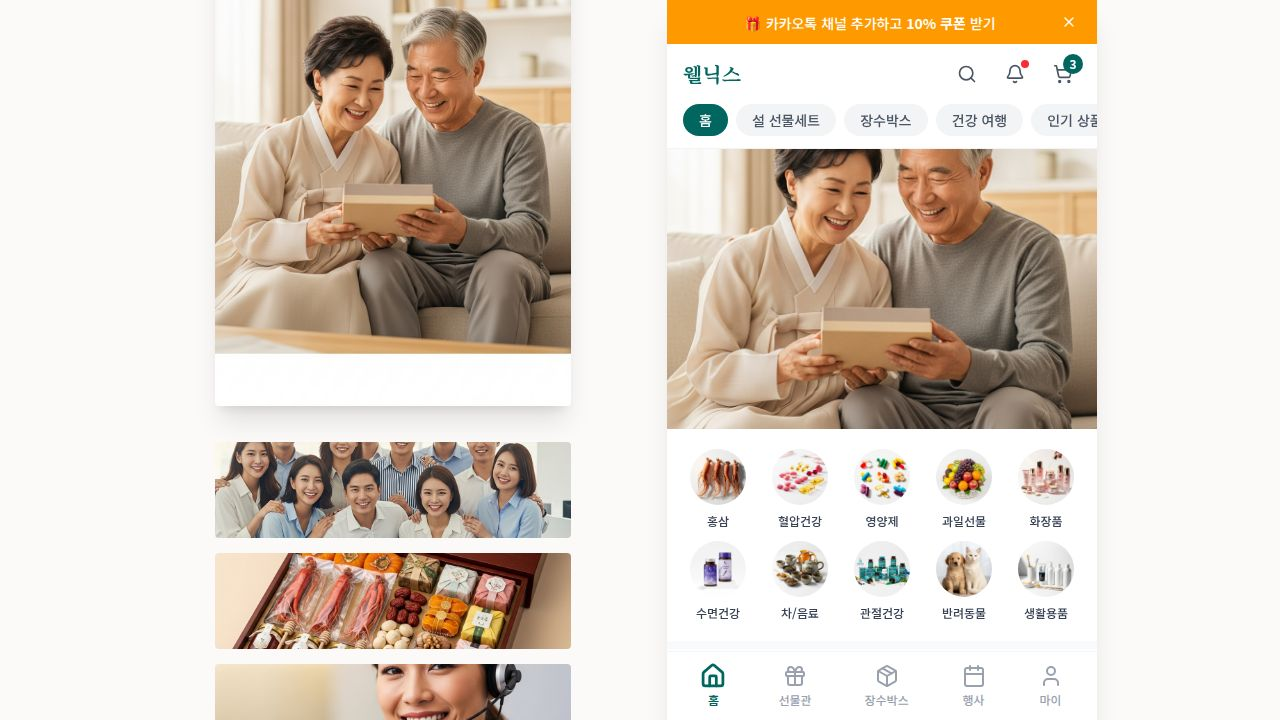
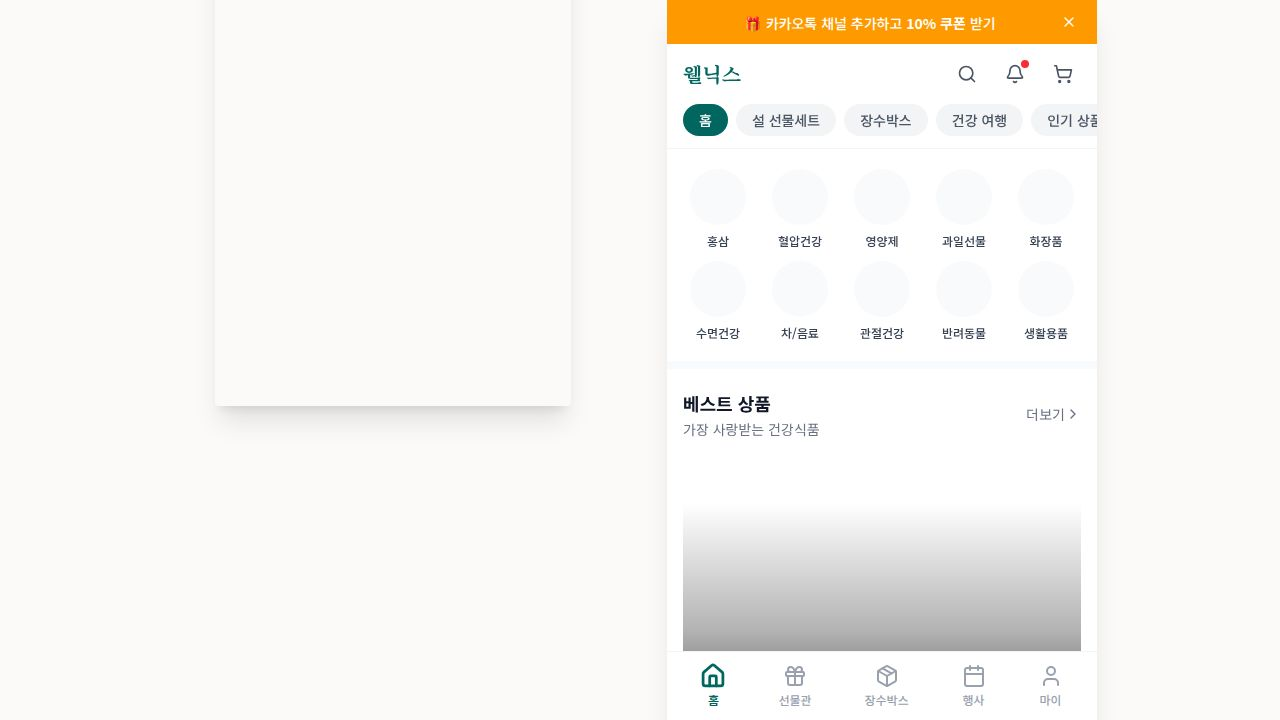
Add a page to view user notifications and mark them as read
Introduces a new NotificationsPage component, updates the header to display an unread notification count badge, and adds API endpoints for fetching unread counts and marking all notifications as read.

Replit-Commit-Author: Agent
Replit-Commit-Session-Id: e8a9c553-277e-4918-a1a7-23c5ad4b05ab
Replit-Commit-Checkpoint-Type: full_checkpoint
Replit-Commit-Event-Id: 5a8dfafa-de01-4398-b879-13fb6621a474
Replit-Commit-Screenshot-Url: https://storage.googleapis.com/screenshot-production-us-central1/d231b134-7ceb-4650-be16-58a3bee1cfa0/e8a9c553-277e-4918-a1a7-23c5ad4b05ab/y8km6Mv
Replit-Helium-Checkpoint-Created: true

diff --git a/client/src/pages/NotificationsPage.tsx b/client/src/pages/NotificationsPage.tsx
@@ -1,0 +1,233 @@
+import { useLocation } from "wouter";
+import { useQuery, useMutation, useQueryClient } from "@tanstack/react-query";
+import { ChevronLeft, Home, Bell, Package, Gift, Megaphone, CheckCheck } from "lucide-react";
+import { AppLayout } from "@/components/AppLayout";
+import { Button } from "@/components/ui/button";
+import { useAuth } from "@/hooks/use-auth";
+import { apiRequest } from "@/lib/queryClient";
+
+interface Notification {
+  id: number;
+  memberId: number;
+  type: string;
+  title: string;
+  content: string | null;
+  link: string | null;
+  isRead: boolean;
+  createdAt: string;
+}
+
+function getNotificationIcon(type: string) {
+  switch (type) {
+    case "order":
+      return <Package className="w-5 h-5" />;
+    case "promotion":
+      return <Gift className="w-5 h-5" />;
+    case "announcement":
+      return <Megaphone className="w-5 h-5" />;
+    default:
+      return <Bell className="w-5 h-5" />;
+  }
+}
+
+function formatDate(dateStr: string) {
+  const date = new Date(dateStr);
+  const now = new Date();
+  const diff = now.getTime() - date.getTime();
+  const minutes = Math.floor(diff / 60000);
+  const hours = Math.floor(diff / 3600000);
+  const days = Math.floor(diff / 86400000);
+
+  if (minutes < 1) return "방금 전";
+  if (minutes < 60) return `${minutes}분 전`;
+  if (hours < 24) return `${hours}시간 전`;
+  if (days < 7) return `${days}일 전`;
+  return date.toLocaleDateString("ko-KR");
+}
+
+export default function NotificationsPage() {
+  const [, setLocation] = useLocation();
+  const queryClient = useQueryClient();
+  const { isLoading: authLoading, isAuthenticated } = useAuth();
+
+  const { data: notifications = [], isLoading } = useQuery<Notification[]>({
+    queryKey: ["/api/notifications"],
+    queryFn: async () => {
+      const res = await fetch("/api/notifications");
+      if (!res.ok) return [];
+      return res.json();
+    },
+    enabled: isAuthenticated,
+    staleTime: 30000,
+  });
+
+  const markAllReadMutation = useMutation({
+    mutationFn: async () => {
+      return apiRequest("PUT", "/api/notifications/read-all");
+    },
+    onSuccess: () => {
+      queryClient.setQueryData(["/api/notifications"], (old: Notification[] | undefined) =>
+        old?.map(n => ({ ...n, isRead: true })) || []
+      );
+      queryClient.invalidateQueries({ queryKey: ["/api/notifications/unread-count"] });
+    },
+  });
+
+  const markReadMutation = useMutation({
+    mutationFn: async (id: number) => {
+      return apiRequest("PUT", `/api/notifications/${id}/read`);
+    },
+    onSuccess: (_, id) => {
+      queryClient.setQueryData(["/api/notifications"], (old: Notification[] | undefined) =>
+        old?.map(n => n.id === id ? { ...n, isRead: true } : n) || []
+      );
+      queryClient.invalidateQueries({ queryKey: ["/api/notifications/unread-count"] });
+    },
+  });
+
+  const handleNotificationClick = (notification: Notification) => {
+    if (!notification.isRead) {
+      markReadMutation.mutate(notification.id);
+    }
+    if (notification.link) {
+      setLocation(notification.link);
+    }
+  };
+
+  const unreadCount = notifications.filter(n => !n.isRead).length;
+
+  if (authLoading) {
+    return (
+      <AppLayout hideNav>
+        <div className="min-h-screen flex items-center justify-center">
+          <div className="w-8 h-8 border-2 border-primary border-t-transparent rounded-full animate-spin" />
+        </div>
+      </AppLayout>
+    );
+  }
+
+  if (!isAuthenticated) {
+    return (
+      <AppLayout hideNav>
+        <div className="min-h-screen bg-gray-50">
+          <header className="sticky top-0 z-50 bg-white border-b border-gray-100">
+            <div className="flex items-center justify-between px-4 py-3">
+              <button
+                onClick={() => window.history.back()}
+                className="w-9 h-9 flex items-center justify-center"
+                data-testid="back-button"
+              >
+                <ChevronLeft className="w-6 h-6 text-gray-600" />
+              </button>
+              <h1 className="text-lg font-bold">알림</h1>
+              <button
+                onClick={() => setLocation("/")}
+                className="w-9 h-9 flex items-center justify-center"
+                data-testid="home-button"
+              >
+                <Home className="w-5 h-5 text-gray-600" />
+              </button>
+            </div>
+          </header>
+          <div className="flex flex-col items-center justify-center py-16 bg-white">
+            <Bell className="w-16 h-16 text-gray-300 mb-4" />
+            <p className="text-gray-500 mb-4">로그인이 필요합니다</p>
+            <Button onClick={() => setLocation("/mypage")} data-testid="login-button">로그인하기</Button>
+          </div>
+        </div>
+      </AppLayout>
+    );
+  }
+
+  return (
+    <AppLayout hideNav>
+      <div className="min-h-screen bg-gray-50">
+        <header className="sticky top-0 z-50 bg-white border-b border-gray-100">
+          <div className="flex items-center justify-between px-4 py-3">
+            <button
+              onClick={() => window.history.back()}
+              className="w-9 h-9 flex items-center justify-center"
+              data-testid="back-button"
+            >
+              <ChevronLeft className="w-6 h-6 text-gray-600" />
+            </button>
+            <h1 className="text-lg font-bold">알림</h1>
+            <button
+              onClick={() => setLocation("/")}
+              className="w-9 h-9 flex items-center justify-center"
+              data-testid="home-button"
+            >
+              <Home className="w-5 h-5 text-gray-600" />
+            </button>
+          </div>
+        </header>
+
+        {unreadCount > 0 && (
+          <div className="px-4 py-3 bg-white border-b border-gray-100">
+            <Button
+              variant="outline"
+              size="sm"
+              className="w-full"
+              onClick={() => markAllReadMutation.mutate()}
+              disabled={markAllReadMutation.isPending}
+              data-testid="mark-all-read-button"
+            >
+              <CheckCheck className="w-4 h-4 mr-2" />
+              전체 확인 ({unreadCount}건)
+            </Button>
+          </div>
+        )}
+
+        {isLoading ? (
+          <div className="flex items-center justify-center py-16">
+            <div className="w-8 h-8 border-2 border-primary border-t-transparent rounded-full animate-spin" />
+          </div>
+        ) : notifications.length === 0 ? (
+          <div className="flex flex-col items-center justify-center py-16 bg-white">
+            <Bell className="w-16 h-16 text-gray-300 mb-4" />
+            <p className="text-gray-500">알림이 없습니다</p>
+          </div>
+        ) : (
+          <div className="divide-y divide-gray-100">
+            {notifications.map((notification) => (
+              <button
+                key={notification.id}
+                onClick={() => handleNotificationClick(notification)}
+                className={`w-full text-left px-4 py-4 flex gap-3 transition-colors ${
+                  notification.isRead ? "bg-white" : "bg-primary/5"
+                } hover:bg-gray-50`}
+                data-testid={`notification-item-${notification.id}`}
+              >
+                <div className={`w-10 h-10 rounded-full flex items-center justify-center flex-shrink-0 ${
+                  notification.isRead ? "bg-gray-100 text-gray-500" : "bg-primary/10 text-primary"
+                }`}>
+                  {getNotificationIcon(notification.type)}
+                </div>
+                <div className="flex-1 min-w-0">
+                  <div className="flex items-start justify-between gap-2">
+                    <h3 className={`font-medium text-sm line-clamp-1 ${
+                      notification.isRead ? "text-gray-700" : "text-gray-900"
+                    }`}>
+                      {notification.title}
+                    </h3>
+                    {!notification.isRead && (
+                      <span className="w-2 h-2 bg-red-500 rounded-full flex-shrink-0 mt-1.5" />
+                    )}
+                  </div>
+                  {notification.content && (
+                    <p className="text-xs text-gray-500 line-clamp-2 mt-1">
+                      {notification.content}
+                    </p>
+                  )}
+                  <p className="text-xs text-gray-400 mt-1">
+                    {formatDate(notification.createdAt)}
+                  </p>
+                </div>
+              </button>
+            ))}
+          </div>
+        )}
+      </div>
+    </AppLayout>
+  );
+}

diff --git a/client/src/components/Header.tsx b/client/src/components/Header.tsx
@@ -33,6 +33,19 @@ export function Header() {
 
   const cartCount = cartItems.length;
 
+  const { data: unreadNotifications = { count: 0 } } = useQuery<{ count: number }>({
+    queryKey: ["/api/notifications/unread-count"],
+    queryFn: async () => {
+      const res = await fetch("/api/notifications/unread-count");
+      if (!res.ok) return { count: 0 };
+      return res.json();
+    },
+    enabled: !!user,
+    staleTime: 30000,
+  });
+
+  const unreadCount = unreadNotifications.count;
+
   const { data: promotions = [] } = useQuery<any[]>({
     queryKey: ["/api/promotions"],
     queryFn: async () => {
@@ -96,13 +109,15 @@ export function Header() {
               <Search className="w-5 h-5 text-gray-600" />
             </button>
           </Link>
-          <Link href="/mypage/notifications">
+          <Link href="/notifications">
             <button 
               className="w-9 h-9 flex items-center justify-center rounded-full hover:bg-gray-100 transition-colors relative"
               data-testid="header-notifications"
             >
               <Bell className="w-5 h-5 text-gray-600" />
-              <span className="absolute top-1 right-1 w-2 h-2 bg-red-500 rounded-full" />
+              {unreadCount > 0 && (
+                <span className="absolute top-1 right-1 w-2 h-2 bg-red-500 rounded-full" />
+              )}
             </button>
           </Link>
           <Link href="/cart">

diff --git a/server/routes/members.ts b/server/routes/members.ts
@@ -86,6 +86,17 @@ router.get("/api/notifications", requireAuth, async (req: Request, res: Response
   res.json(notifications);
 });
 
+router.get("/api/notifications/unread-count", requireAuth, async (req: Request, res: Response) => {
+  const notifications = await storage.getNotifications(req.session.memberId!);
+  const unreadCount = notifications.filter(n => !n.isRead).length;
+  res.json({ count: unreadCount });
+});
+
+router.put("/api/notifications/read-all", requireAuth, async (req: Request, res: Response) => {
+  await storage.markAllNotificationsRead(req.session.memberId!);
+  res.json({ success: true });
+});
+
 router.put("/api/notifications/:id/read", requireAuth, async (req: Request, res: Response) => {
   await storage.markNotificationRead(parseInt(req.params.id));
   res.json({ success: true });

diff --git a/client/src/App.tsx b/client/src/App.tsx
@@ -38,6 +38,7 @@ import AdminEventFormPage from "@/pages/AdminEventFormPage";
 import AdminPromotionFormPage from "@/pages/AdminPromotionFormPage";
 import PromotionPage from "@/pages/PromotionPage";
 import CartPage from "@/pages/CartPage";
+import NotificationsPage from "@/pages/NotificationsPage";
 import NotFound from "@/pages/not-found";
 
 function Router() {
@@ -78,6 +79,7 @@ function Router() {
       <Route path="/products/:id/gallery" component={ProductGalleryPage} />
       <Route path="/promotion/:slug" component={PromotionPage} />
       <Route path="/cart" component={CartPage} />
+      <Route path="/notifications" component={NotificationsPage} />
       <Route component={NotFound} />
     </Switch>
   );
